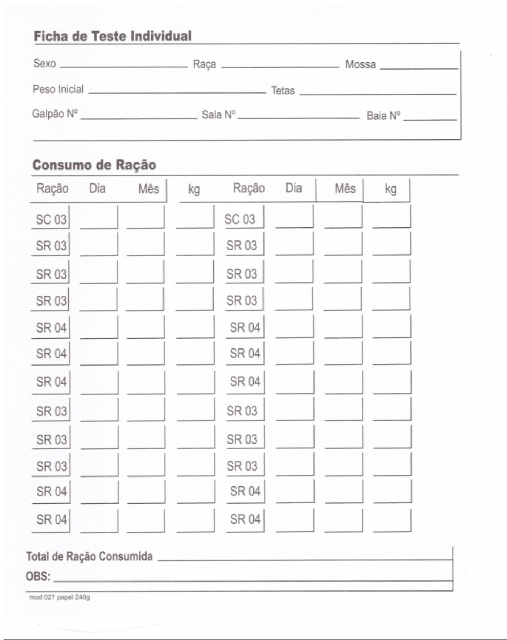
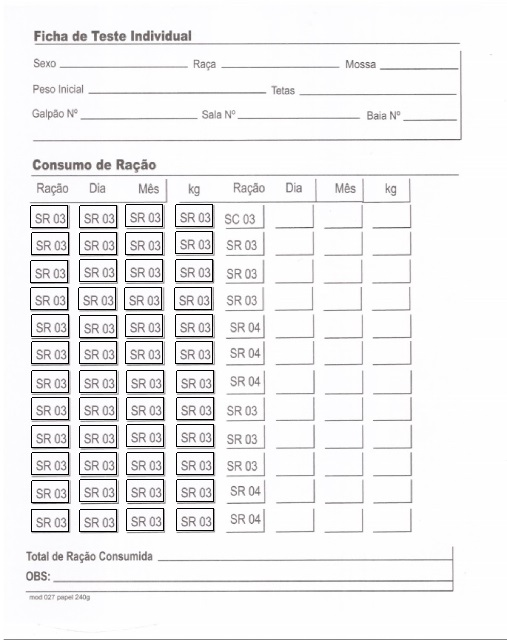
evoluindo leitura para a ficha inteira + testes

Changed region(s): [[0.0592, 0.3125, 0.3254, 0.8438], [0.355, 0.3125, 0.4438, 0.8438]]

diff --git a/scripts/extract_from_images.py b/scripts/extract_from_images.py
@@ -1,89 +1,165 @@
-import imutils as im
+import imutils 
 import numpy as np
 from cv2 import cv2
-import matplotlib.pyplot as mat
+from align_images import alignImages
+from collections import namedtuple
 from imutils.contours import sort_contours
 import tensorflow as tf
 
 print("[INFO] loading handwriting OCR model...")
 model = tf.keras.models.load_model('C:/repository/OCR/modelos/digits.model/')
 
-print("[INFO] loading and processing images...")
-img = cv2.imread('C:/repository/img.jpg')
-gray = cv2.cvtColor(img, cv2.COLOR_BGR2GRAY)
-blur = cv2.medianBlur(gray, 3)
+# print("[INFO] loading and processing images...")
+# img = cv2.imread('C:/repository/img.jpg')
+# gray = cv2.cvtColor(img, cv2.COLOR_BGR2GRAY)
+# blur = cv2.medianBlur(gray, 3)
 
-print("[INFO] finding contours...")
-edged = cv2.Canny(blur, 30, 150)
-cnts = cv2.findContours(edged.copy(), cv2.RETR_EXTERNAL,
-	cv2.CHAIN_APPROX_SIMPLE)
-cnts = im.grab_contours(cnts)
-cnts = sort_contours(cnts, method="left-to-right")[0]
+image = cv2.imread("C:\\repository\\OCR\\modelos\\009_recortado.jpg")
+template = cv2.imread("C:\\repository\\OCR\\modelos\\Ficha Modelo.jpg")
 
-chars = []
+OCRLocation = namedtuple("OCRLocation", ["id", "bbox","filter_keywords"])
 
-# print(cnts)
-cv2.imshow("contornos",edged)
-cv2.waitKey(0)
-cv2.destroyAllWindows()
+OCR_LOCATIONS = [
+    # OCRLocation("Sexo", (58,45,135,22),["sexo"]),
+    # OCRLocation("Raca", (218,45,128,22),["raca"]),
+    # OCRLocation("Mossa", (378,45,82,25),["mossa"]),
+    # OCRLocation("PesoInicial", (85,70,180,23),["pesoinicial"]),
+    # OCRLocation("Tetas", (296,70,162,24),["tetas"]),
+    # OCRLocation("Galpao", (78,96,122,25),["galpao"]),
+    # OCRLocation("Sala", (236,97,128,23),["sala"]),
+    # OCRLocation("Baia", (404,97,60,24),["baia"]),
+    # OCRLocation("Racao01", (30,205,39,23),["racao01"]),
+    OCRLocation("Dia01", (79,205,39,25),["dia01"]),
+    OCRLocation("Mes01", (125,206,40,24),["mes01"]),
+    OCRLocation("Kg01", (175,205,40,24),["kg01"]),
+    # OCRLocation("Racao02", (30,232,39,23),["racao02"]),
+    # OCRLocation("Dia02", (79,233,40,24),["dia02"]),
+    # OCRLocation("Mes02", (125,233,40,24),["mes02"]),
+    # OCRLocation("Kg02", (175,233,40,24),["kg02"]),
+    # OCRLocation("Racao03", (30,260,39,23),["racao03"]),
+    # OCRLocation("Dia03", (79,261,39,25),["dia03"]),
+    # OCRLocation("Mes03", (125,261,40,24),["mes03"]),
+    # OCRLocation("Kg03", (175,261,40,24),["kg03"]),
+    # OCRLocation("Racao04", (30,289,39,23),["racao04"]),
+    # OCRLocation("Dia04", (79,289,39,24),["dia04"]),
+    # OCRLocation("Mes04", (125,289,40,24),["mes04"]),
+    # OCRLocation("Kg04", (175,289,40,24),["kg04"]),
+    # OCRLocation("Racao05", (30,317,39,23),["racao05"]),
+    # OCRLocation("Dia05", (79,317,39,24),["dia05"]),
+    # OCRLocation("Mes05", (126,317,40,24),["mes05"]),
+    # OCRLocation("Kg05", (177,317,39,23),["kg05"]),
+    # OCRLocation("Racao06", (30,345,39,23),["racao06"]),
+    # OCRLocation("Dia06", (79,344,39,24),["dia06"]),
+    # OCRLocation("Mes06", (126,342,40,25),["mes06"]),
+    # OCRLocation("Kg06", (177,344,39,23),["kg06"]),
+    # OCRLocation("Racao07", (30,373,39,23),["racao07"]),
+    # OCRLocation("Dia07", (79,373,39,24),["dia07"]),
+    # OCRLocation("Mes07", (126,373,40,24),["mes07"]),
+    # OCRLocation("Kg07", (177,373,39,24),["kg07"]),
+    # OCRLocation("Racao08", (30,400,40,24),["racao08"]),
+    # OCRLocation("Dia08", (79,400,39,24),["dia08"]), 
+    # OCRLocation("Mes08", (126,400,40,24),["mes08"]),
+    # OCRLocation("Kg08", (177,400,39,24),["kg08"]), 
+    # OCRLocation("Racao09", (30,428,40,24),["racao09"]),
+    # OCRLocation("Dia09", (79,428,39,24),["dia09"]),
+    # OCRLocation("Mes09", (126,428,40,24),["mes09"]),
+    # OCRLocation("Kg09", (177,428,39,24),["kg09"]),
+    # OCRLocation("Racao10", (30,456,40,24),["racao10"]),
+    # OCRLocation("Dia10", (79,456,40,24),["dia10"]),
+    # OCRLocation("Mes10", (126,456,40,24),["mes10"]),
+    # OCRLocation("Kg10", (177,456,39,24),["kg10"]),
+    # OCRLocation("Racao11", (30,483,40,23),["racao11"]),
+    # OCRLocation("Dia11", (79,483,40,24),["dia11"]),
+    # OCRLocation("Mes11", (126,483,40,24),["mes11"]),
+    # OCRLocation("Kg11", (177,483,39,24),["kg11"]),
+    # OCRLocation("Racao12", (30,512,40,23),["racao12"]),
+    # OCRLocation("Dia12", (79,512,40,24),["dia12"]),
+    # OCRLocation("Mes12", (126,512,40,24),["mes12"]),
+    # OCRLocation("Kg12", (177,512,39,24),["kg12"]),
+]
 
-print("[INFO] working on letters contours...")
-for c in cnts:
-	(x, y, w, h) = cv2.boundingRect(c)
+# align the images
+print("[INFO] aligning images...")
+aligned = alignImages(image, template)
 
-	if (w >= 8 and h>=15):
-		print("blurr img -> w:" + str(w) + "   h:" + str(h))
-		roi = blur[y:y+h, x:x+w]
-		thresh = cv2.threshold(roi, 0, 255,
-		cv2.THRESH_BINARY | cv2.THRESH_OTSU)[1]
-		if(w > 28):
-			height, width  = thresh.shape
-			thresh = cv2.resize(thresh, dsize=(28, height), interpolation=cv2.INTER_CUBIC)
-		if(h > 28):
-			height, width  = thresh.shape
-			thresh = cv2.resize(thresh, dsize=(width, 28),interpolation=cv2.INTER_CUBIC)
-		print("thresh img -> w:" + str(thresh.shape[1]) + "   h:" + str(thresh.shape[0]))
-		cv2.imshow("contorno",thresh)
-		cv2.waitKey(0)
-		cv2.destroyAllWindows()
+# loop over the locations of the document we are going to OCR
+for loc in OCR_LOCATIONS:
+	# extract the OCR ROI from the aligned image
+	(x, y, w, h) = loc.bbox
+	aligned = imutils.resize(aligned, height=640, width=512)
+	img = aligned[y:y + h, x:x + w]
+	img = cv2.medianBlur(img, 3)
+	cv2.imshow("roi",img)
+	cv2.waitKey(0)
+	cv2.destroyAllWindows()
+	print("[INFO] finding contours...")
+	edged = cv2.Canny(img, 30, 150)
+	cv2.imshow("roi",edged)
+	cv2.waitKey(0)
+	cv2.destroyAllWindows()
+	cnts = cv2.findContours(edged.copy(), cv2.RETR_EXTERNAL,cv2.CHAIN_APPROX_SIMPLE)
+	cnts = imutils.grab_contours(cnts)
+	cnts = sort_contours(cnts, method="left-to-right")[0]
 
-		height, width = thresh.shape
-		dX = int(max(0, 32 - width) / 2.0)
-		dY = int(max(0, 32 - height) / 2.0)
+	chars = []
 
-		padded = cv2.copyMakeBorder(thresh, top=dY, bottom=dY,
-			left=dX, right=dX, borderType=cv2.BORDER_CONSTANT,
-			value=(255, 255, 255))
-			# value=(0, 0, 0))
-		print("thresh img -> w:" + str(padded.shape[1]) + "   h:" + str(padded.shape[0]))
-		padded = cv2.resize(padded, (28, 28))
-		print("thresh img -> w:" + str(padded.shape[1]) + "   h:" + str(padded.shape[0]))
-		padded = cv2.bitwise_not(padded)
-		cv2.imshow("padded",padded)
-		cv2.waitKey(0)
-		cv2.destroyAllWindows()
-		padded = padded.astype("float32") / 255.0
-		padded = np.expand_dims(padded, axis=-1)
-		padded = padded.reshape(28,28,1)
-		
-		chars.append( (padded, (x, y, w, h)) )
+	print("[INFO] working on letters contours...")
+	for c in cnts:
+		(x, y, w, h) = cv2.boundingRect(c)
+
+		if (w > 10 and h>=15):
+			print("blurred img -> w:" + str(w) + "   h:" + str(h))
+			roi = img[y:y+h, x:x+w]
+			thresh = cv2.threshold(roi, 0, 255,
+			cv2.THRESH_BINARY | cv2.THRESH_OTSU)[1]
+			if(w > 28):
+				height, width  = thresh.shape
+				thresh = cv2.resize(thresh, dsize=(28, height), interpolation=cv2.INTER_CUBIC)
+			if(h > 28):
+				height, width  = thresh.shape
+				thresh = cv2.resize(thresh, dsize=(width, 28),interpolation=cv2.INTER_CUBIC)
+			print("threshed img -> w:" + str(thresh.shape[1]) + "   h:" + str(thresh.shape[0]))
+			cv2.imshow("contorno",thresh)
+			cv2.waitKey(0)
+			cv2.destroyAllWindows()
+
+			height, width = thresh.shape
+			dX = int(max(0, 32 - width) / 2.0)
+			dY = int(max(0, 32 - height) / 2.0)
+
+			padded = cv2.copyMakeBorder(thresh, top=dY, bottom=dY,
+				left=dX, right=dX, borderType=cv2.BORDER_CONSTANT,
+				value=(255, 255, 255))
+				# value=(0, 0, 0))
+			# print("thresh img -> w:" + str(padded.shape[1]) + "   h:" + str(padded.shape[0]))
+			padded = cv2.resize(padded, (28, 28))
+			# print("thresh img -> w:" + str(padded.shape[1]) + "   h:" + str(padded.shape[0]))
+			padded = cv2.bitwise_not(padded)
+			cv2.imshow("padded",padded)
+			cv2.waitKey(0)
+			cv2.destroyAllWindows()
+			padded = padded.astype("float32") / 255.0
+			padded = np.expand_dims(padded, axis=-1)
+			padded = padded.reshape(28,28,1)
+			
+			chars.append( (padded, (x, y, w, h)) )
 
 
 
-boxes = [b[1] for b in chars]
-chars = np.array([c[0] for c in chars], dtype="float32")
+	boxes = [b[1] for b in chars]
+	chars = np.array([c[0] for c in chars], dtype="float32")
 
-preds = model.predict(chars)
+	preds = model.predict(chars)
 
-labelNames = "0123456789"
-labelNames += "ABCDEFGHIJKLMNOPQRSTUVWXYZ"
-labelNames = [l for l in labelNames]
+	labelNames = "0123456789"
+	labelNames += "ABCDEFGHIJKLMNOPQRSTUVWXYZ"
+	labelNames = [l for l in labelNames]
 
-for (pred, (x, y, w, h)) in zip(preds, boxes):
-	i = np.argmax(pred)
-	prob = pred[i]
-	label = labelNames[i]
+	for (pred, (x, y, w, h)) in zip(preds, boxes):
+		i = np.argmax(pred)
+		prob = pred[i]
+		label = labelNames[i]
 
-	print("[INFO] {} - {:.2f}%".format(label, prob * 100))
+		print("[INFO] {} - {:.2f}%".format(label, prob * 100))
 
 

diff --git a/scripts/align_documents.py b/scripts/align_documents.py
@@ -1,26 +1,74 @@
 from align_images import alignImages
 from collections import namedtuple
-import pytesseract
 import numpy as np
 import imutils
 from cv2 import cv2
 
-def cleanup_text(text):
-	# strip out non-ASCII text so we can draw the text on the image using OpenCV
-	return "".join([c if ord(c) < 128 else "" for c in text]).strip()
+image = cv2.imread("C:\\repository\\OCR\\modelos\\009_recortado.jpg")
+template = cv2.imread("C:\\repository\\OCR\\modelos\\Ficha Modelo.jpg")
 
 OCRLocation = namedtuple("OCRLocation", ["id", "bbox",
 	"filter_keywords"])
 
 OCR_LOCATIONS = [
-    # OCRLocation("Sexo", (57,43,135,28),["sexo"]),
-    # OCRLocation("Raca", (219,43,128,28),["raca"]),
-    OCRLocation("Mossa", (378,45,83,23),["mossa"])
-
+    OCRLocation("Sexo", (58,45,135,22),["sexo"]),
+    OCRLocation("Raca", (218,45,128,22),["raca"]),
+    OCRLocation("Mossa", (378,45,82,25),["mossa"]),
+    OCRLocation("PesoInicial", (85,70,180,24),["pesoinicial"]),
+    OCRLocation("Tetas", (296,70,162,24),["tetas"]),
+    OCRLocation("Galpao", (78,96,122,25),["galpao"]),
+    OCRLocation("Sala", (236,97,128,23),["sala"]),
+    OCRLocation("Baia", (404,97,60,24),["baia"]),
+    # OCRLocation("Racao01", (30,205,39,23),["racao01"]),
+    # OCRLocation("Dia01", (79,205,39,25),["dia01"]),
+    # OCRLocation("Mes01", (125,206,40,24),["mes01"]),
+    # OCRLocation("Kg01", (175,205,40,24),["kg01"]),
+    # OCRLocation("Racao02", (30,232,39,23),["racao02"]),
+    # OCRLocation("Dia02", (79,233,40,24),["dia02"]),
+    # OCRLocation("Mes02", (125,233,40,24),["mes02"]),
+    # OCRLocation("Kg02", (175,233,40,24),["kg02"]),
+    # OCRLocation("Racao03", (30,260,39,23),["racao03"]),
+    # OCRLocation("Dia03", (79,261,39,25),["dia03"]),
+    # OCRLocation("Mes03", (125,261,40,24),["mes03"]),
+    # OCRLocation("Kg03", (175,261,40,24),["kg03"]),
+    # OCRLocation("Racao04", (30,289,39,23),["racao04"]),
+    # OCRLocation("Dia04", (79,289,39,24),["dia04"]),
+    # OCRLocation("Mes04", (125,289,40,24),["mes04"]),
+    # OCRLocation("Kg04", (175,289,40,24),["kg04"]),
+    # OCRLocation("Racao05", (30,317,39,23),["racao05"]),
+    # OCRLocation("Dia05", (79,317,39,24),["dia05"]),
+    # OCRLocation("Mes05", (126,317,40,24),["mes05"]),
+    # OCRLocation("Kg05", (177,317,39,23),["kg05"]),
+    # OCRLocation("Racao06", (30,345,39,23),["racao06"]),
+    # OCRLocation("Dia06", (79,344,39,24),["dia06"]),
+    # OCRLocation("Mes06", (126,342,40,25),["mes06"]),
+    # OCRLocation("Kg06", (177,344,39,23),["kg06"]),
+    # OCRLocation("Racao07", (30,373,39,23),["racao07"]),
+    # OCRLocation("Dia07", (79,373,39,24),["dia07"]),
+    # OCRLocation("Mes07", (126,373,40,24),["mes07"]),
+    # OCRLocation("Kg07", (177,373,39,24),["kg07"]),
+    # OCRLocation("Racao08", (30,400,40,24),["racao08"]),
+    # OCRLocation("Dia08", (79,400,39,24),["dia08"]), 
+    # OCRLocation("Mes08", (126,400,40,24),["mes08"]),
+    # OCRLocation("Kg08", (177,400,39,24),["kg08"]), 
+    # OCRLocation("Racao09", (30,428,40,24),["racao09"]),
+    # OCRLocation("Dia09", (79,428,39,24),["dia09"]),
+    # OCRLocation("Mes09", (126,428,40,24),["mes09"]),
+    # OCRLocation("Kg09", (177,428,39,24),["kg09"]),
+    # OCRLocation("Racao10", (30,456,40,24),["racao10"]),
+    # OCRLocation("Dia10", (79,456,40,24),["dia10"]),
+    # OCRLocation("Mes10", (126,456,40,24),["mes10"]),
+    # OCRLocation("Kg10", (177,456,39,24),["kg10"]),
+    # OCRLocation("Racao11", (30,483,40,23),["racao11"]),
+    # OCRLocation("Dia11", (79,483,40,24),["dia11"]),
+    # OCRLocation("Mes11", (126,483,40,24),["mes11"]),
+    # OCRLocation("Kg11", (177,483,39,24),["kg11"]),
+    # OCRLocation("Racao12", (30,512,40,23),["racao12"]),
+    # OCRLocation("Dia12", (79,512,40,24),["dia12"]),
+    # OCRLocation("Mes12", (126,512,40,24),["mes12"]),
+    # OCRLocation("Kg12", (177,512,39,24),["kg12"]),
 ]
 
-image = cv2.imread("C:\\repository\\OCR\\modelos\\009_recortado.jpg")
-template = cv2.imread("C:\\repository\\OCR\\modelos\\Ficha Modelo.jpg")
 
 # align the images
 print("[INFO] aligning images...")
@@ -35,15 +83,17 @@ for loc in OCR_LOCATIONS:
 	# extract the OCR ROI from the aligned image
     (x, y, w, h) = loc.bbox
     aligned = imutils.resize(aligned, height=640, width=512)
-    roi = aligned[y:y + h, x:x + w]
-    cv2.imwrite("C:/repository/img.jpg",roi)
+    roi = aligned[y:y + h, x:x + w] 
+    # template = imutils.resize(template,height=640,width=512)
+    # roi = template[y:y + h, x:x + w]
+    # cv2.imwrite("C:/repository/img.jpg",roi)
     cv2.imshow("roi",roi)
     cv2.waitKey(0)
     cv2.destroyAllWindows()
 
-	# # OCR the ROI using Tesseract
+	# # OCR the ROI using TesseRacaot
     # rgb = cv2.cvtColor(roi, cv2.COLOR_BGR2RGB)
-    # text = pytesseract.image_to_string(rgb)
+    # text = pytesseRacaot.image_to_string(rgb)
 
     # print(text)
 
@@ -72,7 +122,7 @@ for loc in OCR_LOCATIONS:
 # cv2.rectangle(template, (235,120), (365,92),(0, 255, 0), 2)
 # cv2.rectangle(template, (400,120), (460,92),(0, 255, 0), 2)
 
-# # RACAO COLUNA 1
+# # RacaoAO COLUNA 1
 # cv2.rectangle(template, (30,230), (214,200),(0, 255, 0), 2)
 # cv2.rectangle(template, (30,257), (214,227),(0, 255, 0), 2)
 # cv2.rectangle(template, (30,284), (214,254),(0, 255, 0), 2)
@@ -86,7 +136,7 @@ for loc in OCR_LOCATIONS:
 # cv2.rectangle(template, (30,504), (214,474),(0, 255, 0), 2)
 # cv2.rectangle(template, (30,534), (214,501),(0, 255, 0), 2)
 
-# # RACAO COLUNA 2
+# # RacaoAO COLUNA 2
 # cv2.rectangle(template, (222,230), (412,200),(0, 255, 0), 2)
 # cv2.rectangle(template, (222,257), (412,227),(0, 255, 0), 2)
 # cv2.rectangle(template, (222,284), (412,254),(0, 255, 0), 2)

diff --git a/scripts/align_images.py b/scripts/align_images.py
@@ -17,8 +17,8 @@ def alignImages(image, template, maxFeatures=50000, keepPercent=0.3, debug=False
     matches = sorted(matches, key=lambda x: x.distance)
 
     keep = int(len(matches) * keepPercent)
-    print(len(matches))
-    print(keep)
+    # print(len(matches))
+    # print(keep)
     matches = matches[:keep]
 
     # if debug:
@@ -38,7 +38,7 @@ def alignImages(image, template, maxFeatures=50000, keepPercent=0.3, debug=False
     (H, mask) = cv2.findHomography(ptsA, ptsB, method=cv2.RANSAC)
 
     (h, w) = template.shape[:2]
-    aligned = cv2.warpPerspective(image, H, (w, h))
+    aligned = cv2.warpPerspective(imageGray, H, (w, h))
 
     if debug:
         aligned = imutils.resize(aligned, height=640, width=512)

diff --git a/scripts/train_mnist_model.py b/scripts/train_mnist_model.py
@@ -22,7 +22,6 @@ model.add(tf.keras.layers.Conv2D(filters=64,kernel_size=(3,3),activation=tf.nn.r
 model.add(tf.keras.layers.Conv2D(filters=128,kernel_size=(3,3),activation=tf.nn.relu,padding="same"))
 model.add(tf.keras.layers.MaxPooling2D(pool_size=(2,2),padding="same"))
 model.add(tf.keras.layers.Flatten())
-
 model.add(tf.keras.layers.Dense(units=10, activation=tf.nn.softmax))
 
 model.compile(optimizer='adam',loss='sparse_categorical_crossentropy',metrics=['accuracy'])
